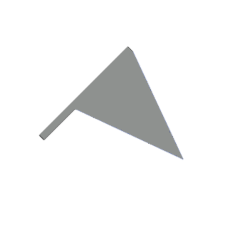
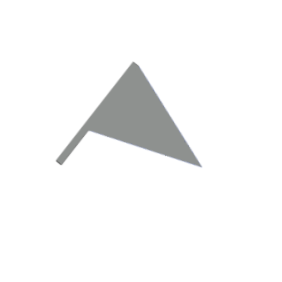
Boathouse shadows using 38 degrees

Changed region(s): [[0.1389, 0.1667, 0.75, 0.6389]]

diff --git a/flagging_site/templates/boathouses.html b/flagging_site/templates/boathouses.html
@@ -31,7 +31,7 @@
 				iconSize: [50, 50],
 				shadowSize: [50, 50],
 				iconAnchor: [11,44],
-				shadowAnchor: [8, 27],
+				shadowAnchor: [10, 29],
 				popupAnchor: [0, -34]
 			}
 		});

diff --git a/flagging_site/blueprints/flagging.py b/flagging_site/blueprints/flagging.py
@@ -154,7 +154,8 @@ def boathouses() -> str:
     #     element 0:  a decimal value showing the boathouse's latitude
     #     element 1:  a decimal value showing the boathouse's longitude
     #     element 2:  a string showing the boathouse name
-
+    #     element 3:  the icon for the flag for that boathouse
+    #
     #     Note that latitudes west of the Prime Meridian are positive 
     #         (thus those east of the Prime Meridian are negative)
     #     Longitudes north of the Equator are negative
